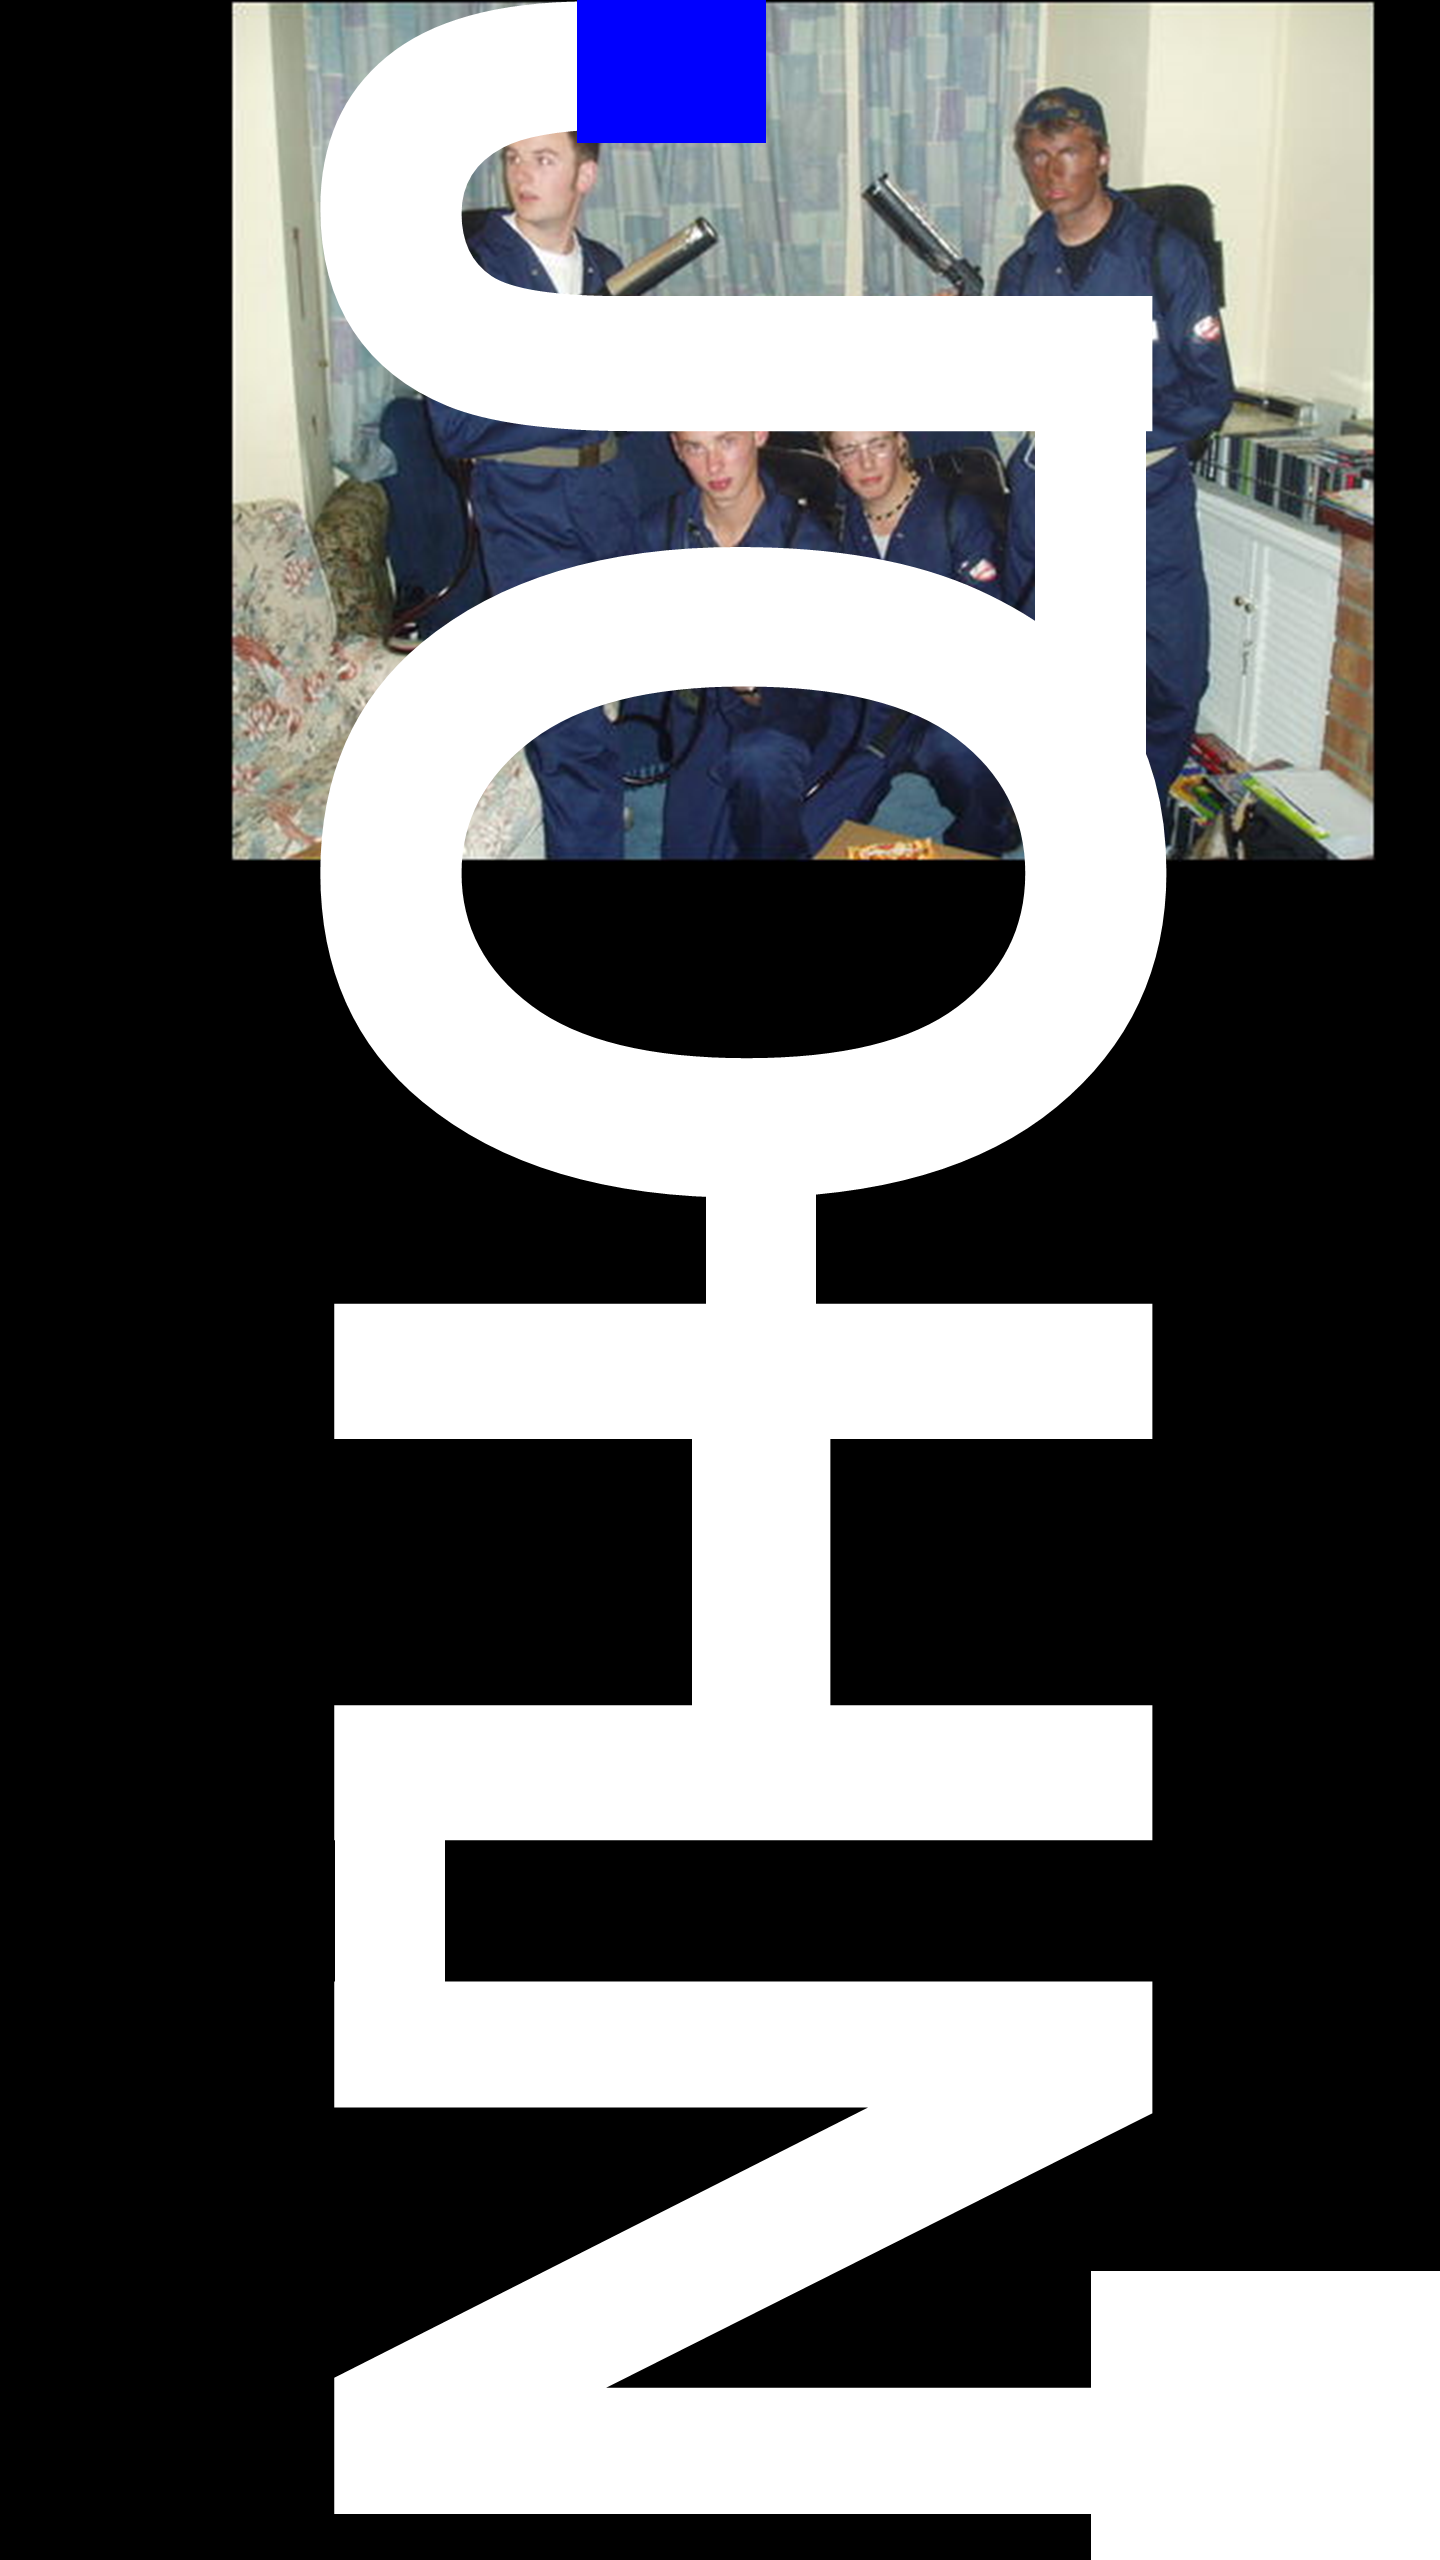
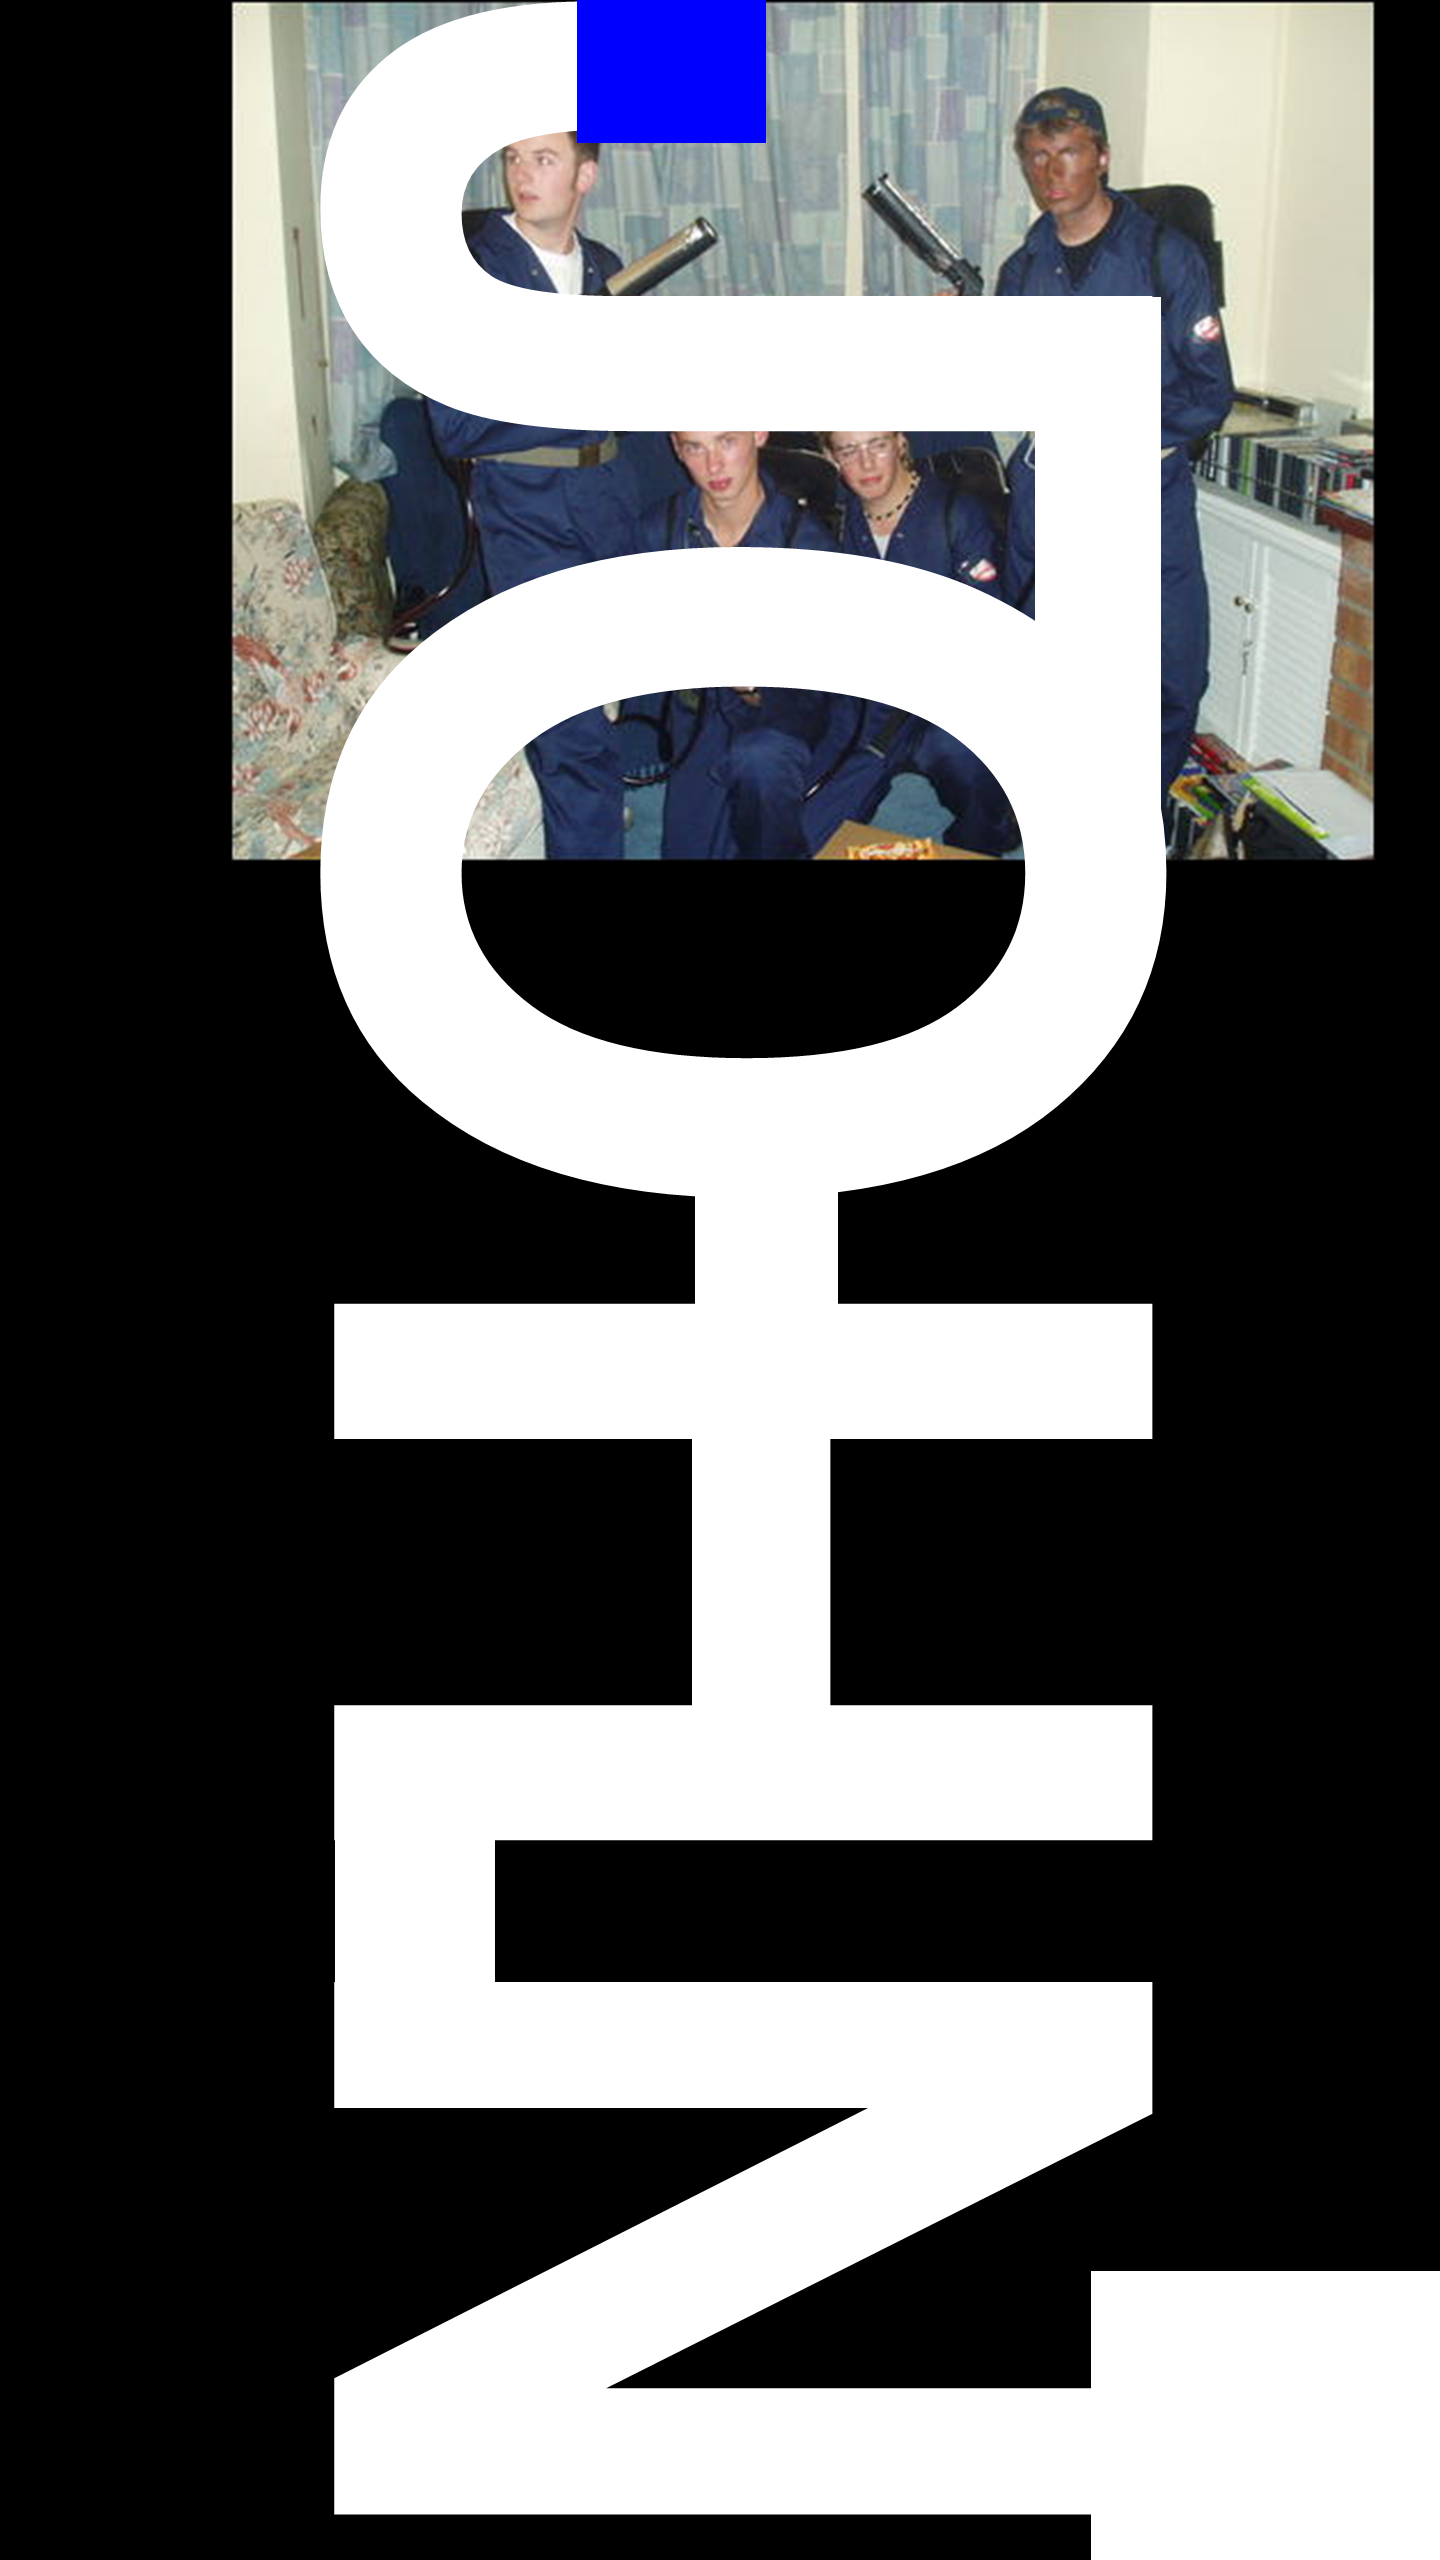
updates

diff --git a/src/level.py b/src/level.py
@@ -34,6 +34,11 @@ class Level:
             'SPECIAL': (0, 0, 255)   # Blue - special areas
         }
         
+        # Collision masks for fast collision detection
+        self.solid_mask = None
+        self.special_mask = None
+        self.hazard_mask = None
+        
         self.load_level()
     
     def load_level(self):
@@ -55,8 +60,37 @@ class Level:
             self.width = self.collision_surface.get_width()
             self.height = self.collision_surface.get_height()
             
+            # Create collision masks for fast collision detection
+            self._create_collision_masks()
+            
         except pygame.error as e:
             raise RuntimeError(f"Failed to load level image {self.image_path}: {e}")
+    
+    def _create_collision_masks(self):
+        """Create pygame masks for each collision type using fast threshold operations."""
+        # Use pygame.mask.from_threshold for much faster mask creation
+        # This directly creates a mask from pixels matching a specific color
+        
+        # Create solid collision mask (black pixels)
+        self.solid_mask = pygame.mask.from_threshold(
+            self.collision_surface,
+            self.COLLISION_COLORS['SOLID'],  # Color to match
+            (1, 1, 1, 255)  # Threshold - allow exact match only
+        )
+        
+        # Create special collision mask (blue pixels)
+        self.special_mask = pygame.mask.from_threshold(
+            self.collision_surface,
+            self.COLLISION_COLORS['SPECIAL'],  # Color to match
+            (1, 1, 1, 255)  # Threshold - allow exact match only
+        )
+        
+        # Create hazard collision mask (red pixels)
+        self.hazard_mask = pygame.mask.from_threshold(
+            self.collision_surface,
+            self.COLLISION_COLORS['HAZARD'],  # Color to match
+            (1, 1, 1, 255)  # Threshold - allow exact match only
+        )
     
     def check_collision_at_point(self, x, y):
         """
@@ -122,9 +156,8 @@ class Level:
     
     def check_spaceship_collisions(self, spaceship_surface, spaceship_x, spaceship_y):
         """
-        Check for pixel-perfect collision between spaceship and level for SOLID, SPECIAL, and HAZARD zones.
-        Only considers non-transparent pixels of the spaceship.
-        This combined method avoids duplicate pixel iteration.
+        Check for collision between spaceship and level using pygame masks for fast detection.
+        This is much faster than pixel-by-pixel checking.
         
         Args:
             spaceship_surface (pygame.Surface): The rotated spaceship surface
@@ -134,67 +167,17 @@ class Level:
         Returns:
             tuple: (solid_collision, special_collision, hazard_collision) - all bool values
         """
-        # Get spaceship dimensions
-        ship_width = spaceship_surface.get_width()
-        ship_height = spaceship_surface.get_height()
+        # Create mask from spaceship surface (this is cached internally by pygame when possible)
+        spaceship_mask = pygame.mask.from_surface(spaceship_surface)
         
-        # Check bounds to avoid unnecessary pixel checking
-        if (spaceship_x >= self.width or spaceship_y >= self.height or
-            spaceship_x + ship_width <= 0 or spaceship_y + ship_height <= 0):
-            return False, False, False
+        # Calculate offset for mask overlap checking
+        # Offset is the position of the spaceship relative to the level
+        offset = (int(spaceship_x), int(spaceship_y))
         
-        # Calculate the overlapping region between spaceship and level
-        # Convert float coordinates to integers for range operations
-        spaceship_x_int = int(spaceship_x)
-        spaceship_y_int = int(spaceship_y)
-        
-        start_x = max(0, spaceship_x_int)
-        end_x = min(self.width, spaceship_x_int + ship_width)
-        start_y = max(0, spaceship_y_int)
-        end_y = min(self.height, spaceship_y_int + ship_height)
-        
-        # Track collision types found
-        solid_collision = False
-        special_collision = False
-        hazard_collision = False
-        
-        # Check each pixel in the overlapping region
-        for level_x in range(start_x, end_x):
-            for level_y in range(start_y, end_y):
-                # Calculate corresponding spaceship pixel coordinates
-                ship_pixel_x = level_x - spaceship_x_int
-                ship_pixel_y = level_y - spaceship_y_int
-                
-                # Skip if outside spaceship bounds (shouldn't happen but safety check)
-                if (ship_pixel_x < 0 or ship_pixel_x >= ship_width or
-                    ship_pixel_y < 0 or ship_pixel_y >= ship_height):
-                    continue
-                
-                # Get spaceship pixel (with alpha channel)
-                try:
-                    spaceship_pixel = spaceship_surface.get_at((ship_pixel_x, ship_pixel_y))
-                    spaceship_alpha = spaceship_pixel[3] if len(spaceship_pixel) > 3 else 255
-                    
-                    # Only check collision if spaceship pixel is not transparent
-                    if spaceship_alpha > 0:  # Non-transparent pixel
-                        # Check collision type at this level position
-                        collision_type = self.check_collision_at_point(level_x, level_y)
-                        
-                        if collision_type == 'SOLID':
-                            solid_collision = True
-                        elif collision_type == 'SPECIAL':
-                            special_collision = True
-                        elif collision_type == 'HAZARD':
-                            hazard_collision = True
-                        
-                        # Early exit optimization: if we found solid collision, no need to continue
-                        # (since solid collision would stop the game anyway)
-                        if solid_collision:
-                            return True, special_collision, hazard_collision
-                            
-                except (IndexError, pygame.error):
-                    # Skip invalid pixels
-                    continue
+        # Check for collisions using fast mask overlap
+        solid_collision = self.solid_mask.overlap(spaceship_mask, offset) is not None
+        special_collision = self.special_mask.overlap(spaceship_mask, offset) is not None
+        hazard_collision = self.hazard_mask.overlap(spaceship_mask, offset) is not None
         
         return solid_collision, special_collision, hazard_collision
 

diff --git a/src/menu.py b/src/menu.py
@@ -60,8 +60,8 @@ class MenuState:
         self.levels = [
             LevelInfo("Ryan Level", "assets/images/levels/ryan_level.png"),
             LevelInfo("John Level", "assets/images/levels/john_level.png"),
-            LevelInfo("Martin Level", "assets/images/levels/martin_level.png"),
-            LevelInfo("Slalom Level", "assets/images/levels/slalom.png")
+            LevelInfo("Cock Level", "assets/images/levels/cock_level.png"),
+            LevelInfo("Slalom Level", "assets/images/levels/slalom_level.png")
         ]
         
         # Generate thumbnails for each level

diff --git a/src/game_state_manager.py b/src/game_state_manager.py
@@ -34,7 +34,7 @@ class GameStateManager:
         self.best_ghost_urls = {
             "Ryan Level": "https://api.jsonbin.io/v3/b/68c43384d0ea881f407ba93b",
             "John Level": "https://api.jsonbin.io/v3/b/68ca94be43b1c97be945f7db",
-            "Martin Level": "https://api.jsonbin.io/v3/b/68ca94d343b1c97be945f7f6",
+            "Cock Level": "https://api.jsonbin.io/v3/b/68ca94d343b1c97be945f7f6",
             "Slalom Level": "https://api.jsonbin.io/v3/b/68e536d543b1c97be95dbc50"
         }
         

diff --git a/main.py b/main.py
@@ -89,6 +89,9 @@ async def main():
         dt_ms = clock.tick(60)
         # Normalize to a standard 60 FPS frame (16.67ms)
         delta_time = dt_ms / 16.67
+        # Cap delta_time to prevent physics issues during lag spikes or level loading
+        # Max 3x normal speed to handle brief frame drops without breaking physics
+        delta_time = min(delta_time, 3.0)
         await asyncio.sleep(0)  # This line is critical; ensure you keep the sleep time at 0
     
     # Quit (preserved from original)
